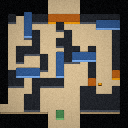
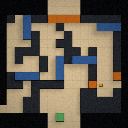
orange cylinder button

diff --git a/public/play-render-three.js b/public/play-render-three.js
@@ -851,6 +851,25 @@
       return geometry;
     }
 
+    function cylinderGeometry(radius, height, segments = 32) {
+      const key = [
+        "cylinder",
+        Math.round(radius * 100),
+        Math.round(height * 100),
+        segments
+      ].join(":");
+
+      if (geometryCache.has(key)) {
+        return geometryCache.get(key);
+      }
+
+      const geometry = new THREE.CylinderGeometry(radius, radius, height, segments, 1, false);
+
+      geometry.computeVertexNormals();
+      geometryCache.set(key, geometry);
+      return geometry;
+    }
+
     function pointKey(point) {
       return `${Math.round(point.x * 1000)},${Math.round(point.z * 1000)}`;
     }
@@ -2665,19 +2684,19 @@
       const center = cellCenter(x, y);
 
       if (layer.type === "orange_button") {
-        const buttonHeight = Math.max(4, elevationUnit * 0.18);
-        addTopRoundedCuboid(
-          unit * 0.42,
-          unit * 0.3,
-          buttonHeight,
-          shapeCornerRadius,
+        const buttonHeight = Math.max(4, elevationUnit * 0.12);
+        const buttonRadius = unit * 0.21;
+
+        addOutlinedMesh(
+          cylinderGeometry(buttonRadius, buttonHeight),
           "#f59e0b",
           {
             x: center.x,
-            y: topY + buttonHeight,
-            z: center.z + unit * 0.08
+            y: topY + buttonHeight / 2,
+            z: center.z
           },
           {
+            edgeThreshold: 24,
             opacity: visibility
           }
         );

diff --git a/public/play-render-terrain.js b/public/play-render-terrain.js
@@ -419,13 +419,11 @@
       }
 
       if (cell.type === "orange_button") {
-        const buttonWidth = TILE_SIZE * 0.42;
-        const buttonHeight = TILE_SIZE * 0.3;
-        const buttonLeft = left + (TILE_SIZE - buttonWidth) / 2;
-        const buttonTop = top + TILE_SIZE * 0.38;
-        const buttonLift = Math.max(2, TILE_SIZE * 0.055);
-        const radius = TILE_SIZE * 0.07;
-        const radii = { tl: radius, tr: radius, br: radius, bl: radius };
+        const buttonRadius = TILE_SIZE * 0.21;
+        const buttonHeight = Math.max(3, TILE_SIZE * 0.12);
+        const buttonCenterX = left + TILE_SIZE / 2;
+        const buttonCenterY = top + TILE_SIZE / 2;
+        const ellipseHeight = buttonRadius * 0.72;
 
         sceneCtx.fillStyle = "#d6bd94";
         sceneCtx.fillRect(left, top, TILE_SIZE, TILE_SIZE);
@@ -433,11 +431,29 @@
         sceneCtx.lineWidth = 1.5;
         sceneCtx.strokeRect(left + 0.75, top + 0.75, TILE_SIZE - 1.5, TILE_SIZE - 1.5);
 
-        roundRectPath(sceneCtx, buttonLeft, buttonTop + buttonLift, buttonWidth, buttonHeight, radii);
+        sceneCtx.beginPath();
+        sceneCtx.ellipse(
+          buttonCenterX,
+          buttonCenterY + buttonHeight,
+          buttonRadius,
+          ellipseHeight,
+          0,
+          0,
+          Math.PI * 2
+        );
         sceneCtx.fillStyle = "#b85f16";
         sceneCtx.fill();
 
-        roundRectPath(sceneCtx, buttonLeft, buttonTop, buttonWidth, buttonHeight, radii);
+        sceneCtx.beginPath();
+        sceneCtx.ellipse(
+          buttonCenterX,
+          buttonCenterY,
+          buttonRadius,
+          ellipseHeight,
+          0,
+          0,
+          Math.PI * 2
+        );
         sceneCtx.fillStyle = "#f59e0b";
         sceneCtx.fill();
         sceneCtx.lineWidth = 2;